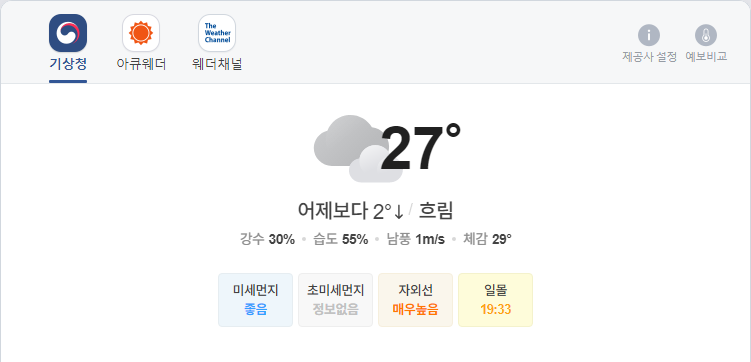
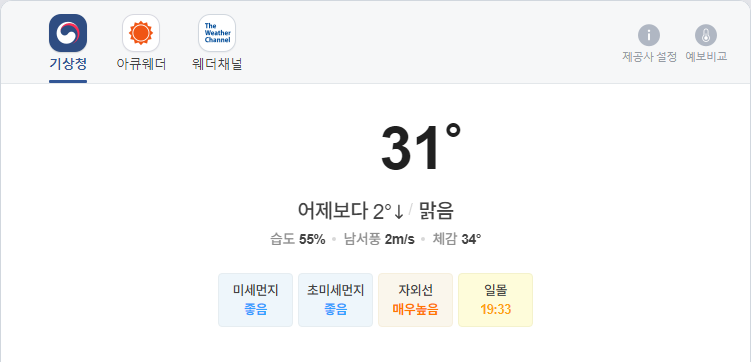
update result

diff --git a/README.md b/README.md
@@ -1,5 +1,5 @@
-##  2021-08-10 09:17:59   화요일 
-##### 날씨   -   어제보다 2° 낮아요흐림  
+##  2021-08-10 12:08:01   화요일 
+##### 날씨   -   어제보다 2° 낮아요맑음  
 <center><img src="../img/naver_weather_week.png"></center>
 ----
 ----
@@ -16,14 +16,14 @@
 <tr align = "right" > <td>DOW</td><td>35,101.85</td><td>-106.66</td><td><font size="3" color="blue" >-0.3%</font></td><td><font size="3" color="black">0</font></td><td><font size="3" color="black">0</font></td><td>0</td>  </tr>
 <tr align = "right" > <td>NASDAQ</td><td>14,860.18</td><td>24.42</td><td><font size="3" color="red" >0.16%</font></td><td><font size="3" color="black">0</font></td><td><font size="3" color="black">0</font></td><td>0</td>  </tr>
 <tr align = "right" > <td>S&P</td><td>4,432.35</td><td>-4.17</td><td><font size="3" color="blue" >-0.09%</font></td><td><font size="3" color="black">0</font></td><td><font size="3" color="black">0</font></td><td>0</td>  </tr>
-<tr align = "right" > <td>SHANHAI</td><td>3,494.64</td><td>36.41</td><td><font size="3" color="red" >1.05%</font></td><td><font size="3" color="black">0</font></td><td><font size="3" color="black">0</font></td><td>0</td>  </tr>
+<tr align = "right" > <td>SHANHAI</td><td>3,497.61</td><td>2.97</td><td><font size="3" color="red" >0.09%</font></td><td><font size="3" color="black">0</font></td><td><font size="3" color="black">0</font></td><td>0</td>  </tr>
 <tr align = "right" > <td>INDIA</td><td>54,402.85</td><td>125.13</td><td><font size="3" color="red" >0.23%</font></td><td><font size="3" color="black">0</font></td><td><font size="3" color="black">0</font></td><td>0</td>  </tr>
 </table>
 ----
 ##### 시장
 <table border="1" bordercolor="blue" align = "center" >
 <tr align = "right" > <td>Item</td><td>Price</td><td>Diff</td><td>Rate</td><td>Buy</td><td>Sell</td><td>...</td>  </tr>
-<tr align = "right" > <td>USD</td><td>1,147.0</td><td>1.3</td><td><font size="3" color="red">0.11%</font></td><td><font size="3" color="black">1,110</font></td><td><font size="3" color="black">0</font></td><td>0</td>  </tr>
+<tr align = "right" > <td>USD</td><td>1,148.0</td><td>2.1</td><td><font size="3" color="red">0.18%</font></td><td><font size="3" color="black">1,110</font></td><td><font size="3" color="black">0</font></td><td>0</td>  </tr>
 <tr align = "right" > <td>WTI</td><td>66.48</td><td>-1.8</td><td><font size="3" color="blue">-2.63%</font></td><td><font size="3" color="black">29.0</font></td><td><font size="3" color="black">0</font></td><td>0</td>  </tr>
 <tr align = "right" > <td>GOLD</td><td>1,723.0</td><td>-36.6</td><td><font size="3" color="blue">-2.07%</font></td><td><font size="3" color="black">0</font></td><td><font size="3" color="black">0</font></td><td>0</td>  </tr>
 </table>
@@ -32,31 +32,31 @@
 <table border="1" bordercolor="blue" align = "center" >
 <tr align = "right" > <td>Item</td><td>Price</td><td>Diff</td><td>Rate</td><td>Purchased</td><td>Sell</td><td>Buy</td>  </tr>
 <tr align = "right" > <td>한국 전력</td><td>25,200</td><td>-50</td><td><font size="3" color="blue">-0.2%</font></td><td>25,720</td><td><font size="3" color="black">27,700</font></td><td><font size="3" color="black">20,700</font></td>  </tr>
-<tr align = "right" > <td>삼성엔지니어.</td><td>23,950</td><td>500</td><td><font size="3" color="red">2.13%</font></td><td>18,935</td><td><font size="3" color="black">20,000</font></td><td><font size="3" color="black">8,000</font></td>  </tr>
-<tr align = "right" > <td>CJ CGV</td><td>30,450</td><td>50</td><td><font size="3" color="red">0.16%</font></td><td>34,895</td><td><font size="3" color="black">36,000</font></td><td><font size="3" color="black">0</font></td>  </tr>
+<tr align = "right" > <td>삼성엔지니어.</td><td>23,900</td><td>450</td><td><font size="3" color="red">1.92%</font></td><td>18,935</td><td><font size="3" color="black">20,000</font></td><td><font size="3" color="black">8,000</font></td>  </tr>
+<tr align = "right" > <td>CJ CGV</td><td>30,750</td><td>350</td><td><font size="3" color="red">1.15%</font></td><td>34,895</td><td><font size="3" color="black">36,000</font></td><td><font size="3" color="black">0</font></td>  </tr>
 <tr align = "right" > <td>아모레퍼시픽</td><td>227,000</td><td>500</td><td><font size="3" color="red">0.22%</font></td><td>235,350</td><td><font size="3" color="black">240,000</font></td><td><font size="3" color="black">130,000</font></td>  </tr>
-<tr align = "right" > <td>한화</td><td>31,100</td><td>-50</td><td><font size="3" color="blue">-0.16%</font></td><td>25,550</td><td><font size="3" color="black">26,250</font></td><td><font size="3" color="black">26,250</font></td>  </tr>
-<tr align = "right" > <td>NAVER</td><td>448,500</td><td>1,000</td><td><font size="3" color="red">0.22%</font></td><td>147,200</td><td><font size="3" color="black">386,000</font></td><td><font size="3" color="black">286,000</font></td>  </tr>
-<tr align = "right" > <td>LG 화학우</td><td>384,500</td><td>1,000</td><td><font size="3" color="red">0.26%</font></td><td>202,490</td><td><font size="3" color="black">384,000</font></td><td><font size="3" color="black">384,000</font></td>  </tr>
-<tr align = "right" > <td>스튜디오드래.</td><td>91,400</td><td>-300</td><td><font size="3" color="blue">-0.33%</font></td><td>81,243</td><td><font size="3" color="black">85,200</font></td><td><font size="3" color="black">85,200</font></td>  </tr>
-<tr align = "right" > <td>QV미국IT</td><td>31,600</td><td>0</td><td><font size="3" color="black">0.0%</font></td><td>0</td><td><font size="3" color="black">30,000</font></td><td><font size="3" color="black">20,000</font></td>  </tr>
-<tr align = "right" > <td>삼성 전자우</td><td>74,600</td><td>-400</td><td><font size="3" color="blue">-0.53%</font></td><td>60,675</td><td><font size="3" color="black">76,000</font></td><td><font size="3" color="black">55,000</font></td>  </tr>
-<tr align = "right" > <td>LS</td><td>69,800</td><td>-300</td><td><font size="3" color="blue">-0.43%</font></td><td>71,900</td><td><font size="3" color="black">82,000</font></td><td><font size="3" color="black">60,000</font></td>  </tr>
-<tr align = "right" > <td>한화에어로스.</td><td>51,200</td><td>-400</td><td><font size="3" color="blue">-0.78%</font></td><td>25,700</td><td><font size="3" color="black">30,000</font></td><td><font size="3" color="black">24,000</font></td>  </tr>
-<tr align = "right" > <td>한화시스템.</td><td>17,000</td><td>50</td><td><font size="3" color="red">0.29%</font></td><td>16,875</td><td><font size="3" color="black">30,000</font></td><td><font size="3" color="black">14,000</font></td>  </tr>
+<tr align = "right" > <td>한화</td><td>31,200</td><td>50</td><td><font size="3" color="red">0.16%</font></td><td>25,550</td><td><font size="3" color="black">26,250</font></td><td><font size="3" color="black">26,250</font></td>  </tr>
+<tr align = "right" > <td>NAVER</td><td>447,000</td><td>-500</td><td><font size="3" color="blue">-0.11%</font></td><td>147,200</td><td><font size="3" color="black">386,000</font></td><td><font size="3" color="black">286,000</font></td>  </tr>
+<tr align = "right" > <td>LG 화학우</td><td>384,000</td><td>500</td><td><font size="3" color="red">0.13%</font></td><td>202,490</td><td><font size="3" color="black">384,000</font></td><td><font size="3" color="black">384,000</font></td>  </tr>
+<tr align = "right" > <td>스튜디오드래.</td><td>91,200</td><td>-500</td><td><font size="3" color="blue">-0.55%</font></td><td>81,243</td><td><font size="3" color="black">85,200</font></td><td><font size="3" color="black">85,200</font></td>  </tr>
+<tr align = "right" > <td>QV미국IT</td><td>31,590</td><td>-10</td><td><font size="3" color="blue">-0.03%</font></td><td>0</td><td><font size="3" color="black">30,000</font></td><td><font size="3" color="black">20,000</font></td>  </tr>
+<tr align = "right" > <td>삼성 전자우</td><td>74,300</td><td>-700</td><td><font size="3" color="blue">-0.93%</font></td><td>60,675</td><td><font size="3" color="black">76,000</font></td><td><font size="3" color="black">55,000</font></td>  </tr>
+<tr align = "right" > <td>LS</td><td>70,900</td><td>800</td><td><font size="3" color="red">1.14%</font></td><td>71,900</td><td><font size="3" color="black">82,000</font></td><td><font size="3" color="black">60,000</font></td>  </tr>
+<tr align = "right" > <td>한화에어로스.</td><td>52,000</td><td>400</td><td><font size="3" color="red">0.78%</font></td><td>25,700</td><td><font size="3" color="black">30,000</font></td><td><font size="3" color="black">24,000</font></td>  </tr>
+<tr align = "right" > <td>한화시스템.</td><td>16,950</td><td>0</td><td><font size="3" color="black">0.0%</font></td><td>16,875</td><td><font size="3" color="black">30,000</font></td><td><font size="3" color="black">14,000</font></td>  </tr>
 <tr align = "right" > <td>카카오</td><td>146,500</td><td>-1,500</td><td><font size="3" color="blue">-1.01%</font></td><td>405,500</td><td><font size="3" color="black">440,000</font></td><td><font size="3" color="orangered">400,000</font></td>  </tr>
-<tr align = "right" > <td>호텔 신라</td><td>92,700</td><td>-300</td><td><font size="3" color="blue">-0.32%</font></td><td>88,650</td><td><font size="3" color="black">100,000</font></td><td><font size="3" color="black">70,000</font></td>  </tr>
-<tr align = "right" > <td>S-Oil</td><td>94,600</td><td>0</td><td><font size="3" color="black">0.0%</font></td><td>62,842</td><td><font size="3" color="black">100,000</font></td><td><font size="3" color="black">50,000</font></td>  </tr>
-<tr align = "right" > <td>LG전자</td><td>159,000</td><td>-2,000</td><td><font size="3" color="blue">-1.24%</font></td><td>82,022</td><td><font size="3" color="black">100,000</font></td><td><font size="3" color="black">60,000</font></td>  </tr>
+<tr align = "right" > <td>호텔 신라</td><td>92,000</td><td>-1,000</td><td><font size="3" color="blue">-1.08%</font></td><td>88,650</td><td><font size="3" color="black">100,000</font></td><td><font size="3" color="black">70,000</font></td>  </tr>
+<tr align = "right" > <td>S-Oil</td><td>93,800</td><td>-800</td><td><font size="3" color="blue">-0.85%</font></td><td>62,842</td><td><font size="3" color="black">100,000</font></td><td><font size="3" color="black">50,000</font></td>  </tr>
+<tr align = "right" > <td>LG전자</td><td>157,500</td><td>-3,500</td><td><font size="3" color="blue">-2.17%</font></td><td>82,022</td><td><font size="3" color="black">100,000</font></td><td><font size="3" color="black">60,000</font></td>  </tr>
 <tr align = "right" > <td>KT&G</td><td>81,500</td><td>-200</td><td><font size="3" color="blue">-0.24%</font></td><td>79,700</td><td><font size="3" color="black">100,000</font></td><td><font size="3" color="black">70,000</font></td>  </tr>
-<tr align = "right" > <td>지역난방공사</td><td>42,550</td><td>-50</td><td><font size="3" color="blue">-0.12%</font></td><td>43,590</td><td><font size="3" color="black">60,000</font></td><td><font size="3" color="black">30,000</font></td>  </tr>
+<tr align = "right" > <td>지역난방공사</td><td>42,600</td><td>0</td><td><font size="3" color="black">0.0%</font></td><td>43,590</td><td><font size="3" color="black">60,000</font></td><td><font size="3" color="black">30,000</font></td>  </tr>
 <tr align = "right" > <td>맥쿼리인프라</td><td>12,300</td><td>0</td><td><font size="3" color="black">0.0%</font></td><td>12,577</td><td><font size="3" color="black">30,000</font></td><td><font size="3" color="black">10,000</font></td>  </tr>
-<tr align = "right" > <td>KOEDX은행</td><td>7,425</td><td>-5</td><td><font size="3" color="blue">-0.07%</font></td><td>7,578</td><td><font size="3" color="black">8,825</font></td><td><font size="3" color="black">6,225</font></td>  </tr>
-<tr align = "right" > <td>글로벌럭셔리</td><td>18,315</td><td>-55</td><td><font size="3" color="blue">-0.3%</font></td><td>16,302</td><td><font size="3" color="black">20,000</font></td><td><font size="3" color="black">10,000</font></td>  </tr>
-<tr align = "right" > <td>TIRGER200건설</td><td>3,285</td><td>-5</td><td><font size="3" color="blue">-0.15%</font></td><td>3,440</td><td><font size="3" color="black">4,000</font></td><td><font size="3" color="black">3,000</font></td>  </tr>
-<tr align = "right" > <td>KODEXK미래차</td><td>10,875</td><td>-80</td><td><font size="3" color="blue">-0.73%</font></td><td>10,955</td><td><font size="3" color="black">20,000</font></td><td><font size="3" color="black">10,000</font></td>  </tr>
-<tr align = "right" > <td>TIGER글로벌BBIG</td><td>11,720</td><td>20</td><td><font size="3" color="red">0.17%</font></td><td>11,020</td><td><font size="3" color="black">20,000</font></td><td><font size="3" color="black">10,000</font></td>  </tr>
-<tr align = "right" > <td>TIGER퓨처모빌리티</td><td>11,220</td><td>-15</td><td><font size="3" color="blue">-0.13%</font></td><td>10,695</td><td><font size="3" color="black">20,000</font></td><td><font size="3" color="black">10,000</font></td>  </tr>
-<tr align = "right" > <td>한국금융지주</td><td>97,800</td><td>600</td><td><font size="3" color="red">0.62%</font></td><td>0</td><td><font size="3" color="black">82,000</font></td><td><font size="3" color="black">60,000</font></td>  </tr>
+<tr align = "right" > <td>KOEDX은행</td><td>7,365</td><td>-65</td><td><font size="3" color="blue">-0.87%</font></td><td>7,578</td><td><font size="3" color="black">8,825</font></td><td><font size="3" color="black">6,225</font></td>  </tr>
+<tr align = "right" > <td>글로벌럭셔리</td><td>18,345</td><td>-25</td><td><font size="3" color="blue">-0.14%</font></td><td>16,302</td><td><font size="3" color="black">20,000</font></td><td><font size="3" color="black">10,000</font></td>  </tr>
+<tr align = "right" > <td>TIRGER200건설</td><td>3,260</td><td>-30</td><td><font size="3" color="blue">-0.91%</font></td><td>3,440</td><td><font size="3" color="black">4,000</font></td><td><font size="3" color="black">3,000</font></td>  </tr>
+<tr align = "right" > <td>KODEXK미래차</td><td>10,845</td><td>-110</td><td><font size="3" color="blue">-1.0%</font></td><td>10,955</td><td><font size="3" color="black">20,000</font></td><td><font size="3" color="black">10,000</font></td>  </tr>
+<tr align = "right" > <td>TIGER글로벌BBIG</td><td>11,705</td><td>5</td><td><font size="3" color="red">0.04%</font></td><td>11,020</td><td><font size="3" color="black">20,000</font></td><td><font size="3" color="black">10,000</font></td>  </tr>
+<tr align = "right" > <td>TIGER퓨처모빌리티</td><td>11,150</td><td>-85</td><td><font size="3" color="blue">-0.76%</font></td><td>10,695</td><td><font size="3" color="black">20,000</font></td><td><font size="3" color="black">10,000</font></td>  </tr>
+<tr align = "right" > <td>한국금융지주</td><td>95,500</td><td>-1,700</td><td><font size="3" color="blue">-1.75%</font></td><td>0</td><td><font size="3" color="black">82,000</font></td><td><font size="3" color="black">60,000</font></td>  </tr>
 </table>
 ----
